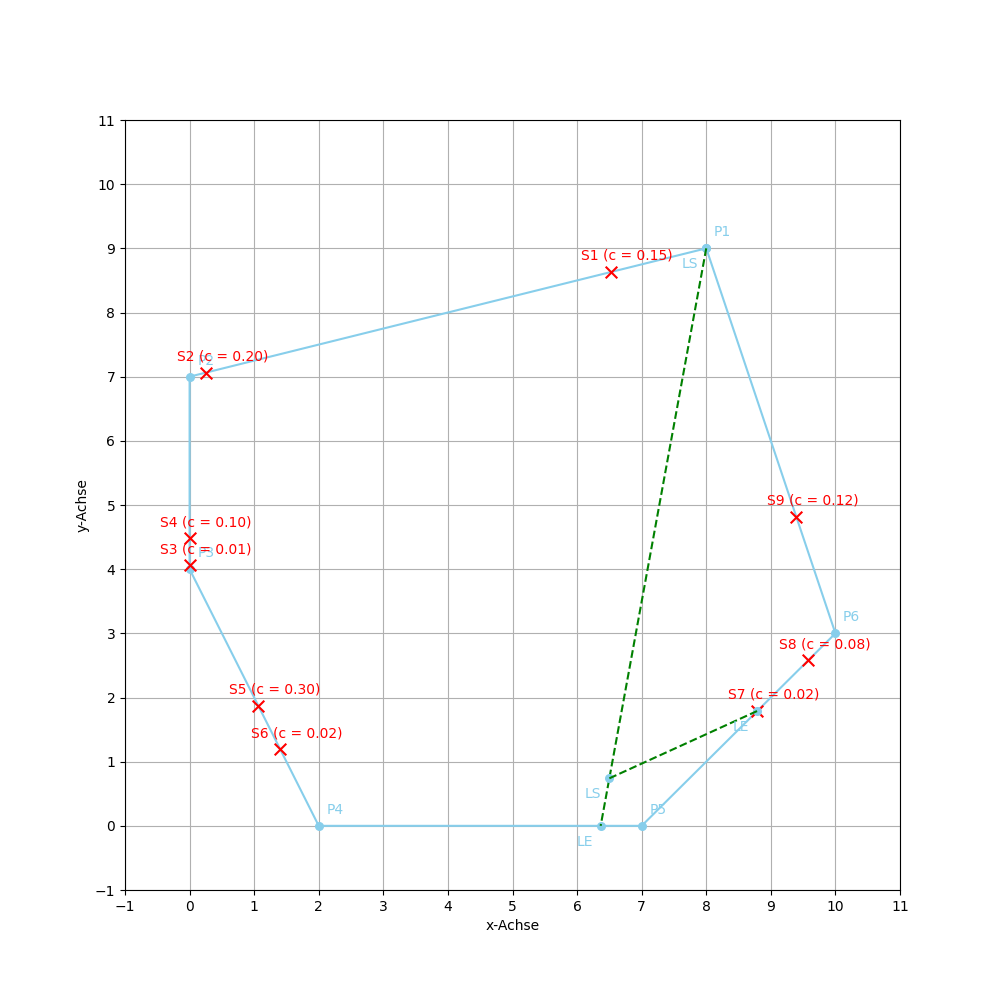
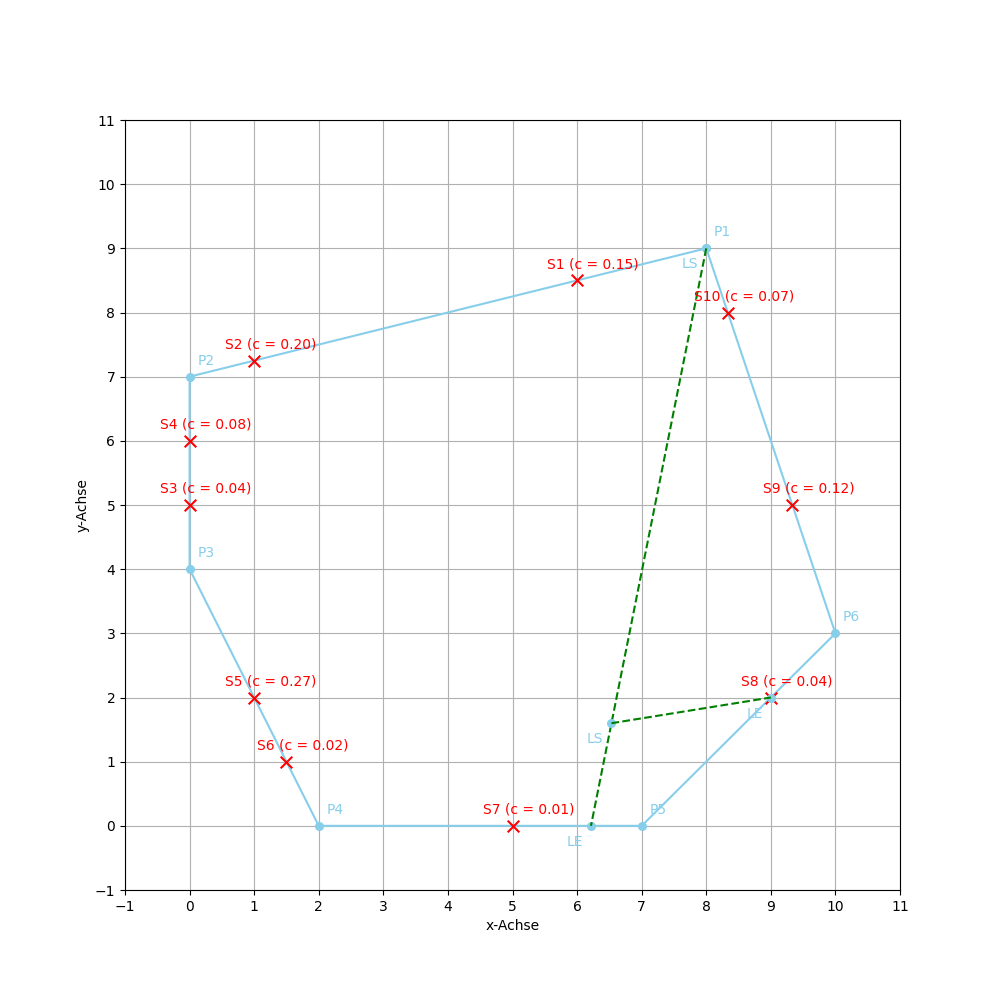
Neue Bilderserien erstellt

diff --git a/Code/ConvexDivide/main.py b/Code/ConvexDivide/main.py
@@ -44,8 +44,38 @@ if __name__ == '__main__':
     P_init = Problem(V=[Point(8, 9, "P1"), Point(0, 7, "P2"), Point(0, 4, "P3"), Point(2, 0, "P4"), Point(7, 0, "P5"),
                         Point(10, 3, "P6")], S=[])
 
-    for i in range(num):
-        P_init.addRandomSite(random_c.pop())
+    #for i in range(num):
+    #    P_init.addRandomSite(random_c.pop())
+
+    # img1
+    # P_init.addSite(Site(1, 2, 0.20))
+    # P_init.addSite(Site(8, 1, 0.80))
+
+    # img2
+    # P_init.addSite(Site(1, 2, 0.70))
+    # P_init.addSite(Site(8, 1, 0.30))
+
+    # img3
+    # P_init.addSite(Site(1, 2, 0.95))
+    # P_init.addSite(Site(8, 1, 0.05))
+
+    # serie
+    # P_init.addSite(Site(4, 8, 0.30))
+    # P_init.addSite(Site(0, 5, 0.20))
+    # P_init.addSite(Site(3, 0, 0.35))
+    # P_init.addSite(Site(9, 2, 0.15))
+
+    # example
+    P_init.addSite(Site(6, 8.5, 0.15))
+    P_init.addSite(Site(1, 7.25, 0.20))
+    P_init.addSite(Site(0, 6, 0.08))
+    P_init.addSite(Site(0, 5, 0.04))
+    P_init.addSite(Site(1, 2, 0.27))
+    P_init.addSite(Site(1.5, 1, 0.02))
+    P_init.addSite(Site(5, 0, 0.01))
+    P_init.addSite(Site(9, 2, 0.04))
+    P_init.addSite(Site(9.333333, 5, 0.12))
+    P_init.addSite(Site(8.333333, 8, 0.07))
 
     P_init.calcArea()
 
@@ -105,6 +135,9 @@ if __name__ == '__main__':
 
             prlarea = PrL.area()
             prlreq = PrL.requiredArea()
+
+        #L = Line(LS, LE)
+        #L.plot(col="grey")
 
         if LE.equal(S[0]) and PrL.area() > PrL.requiredArea():
             while PrL.area() > PrL.requiredArea():
